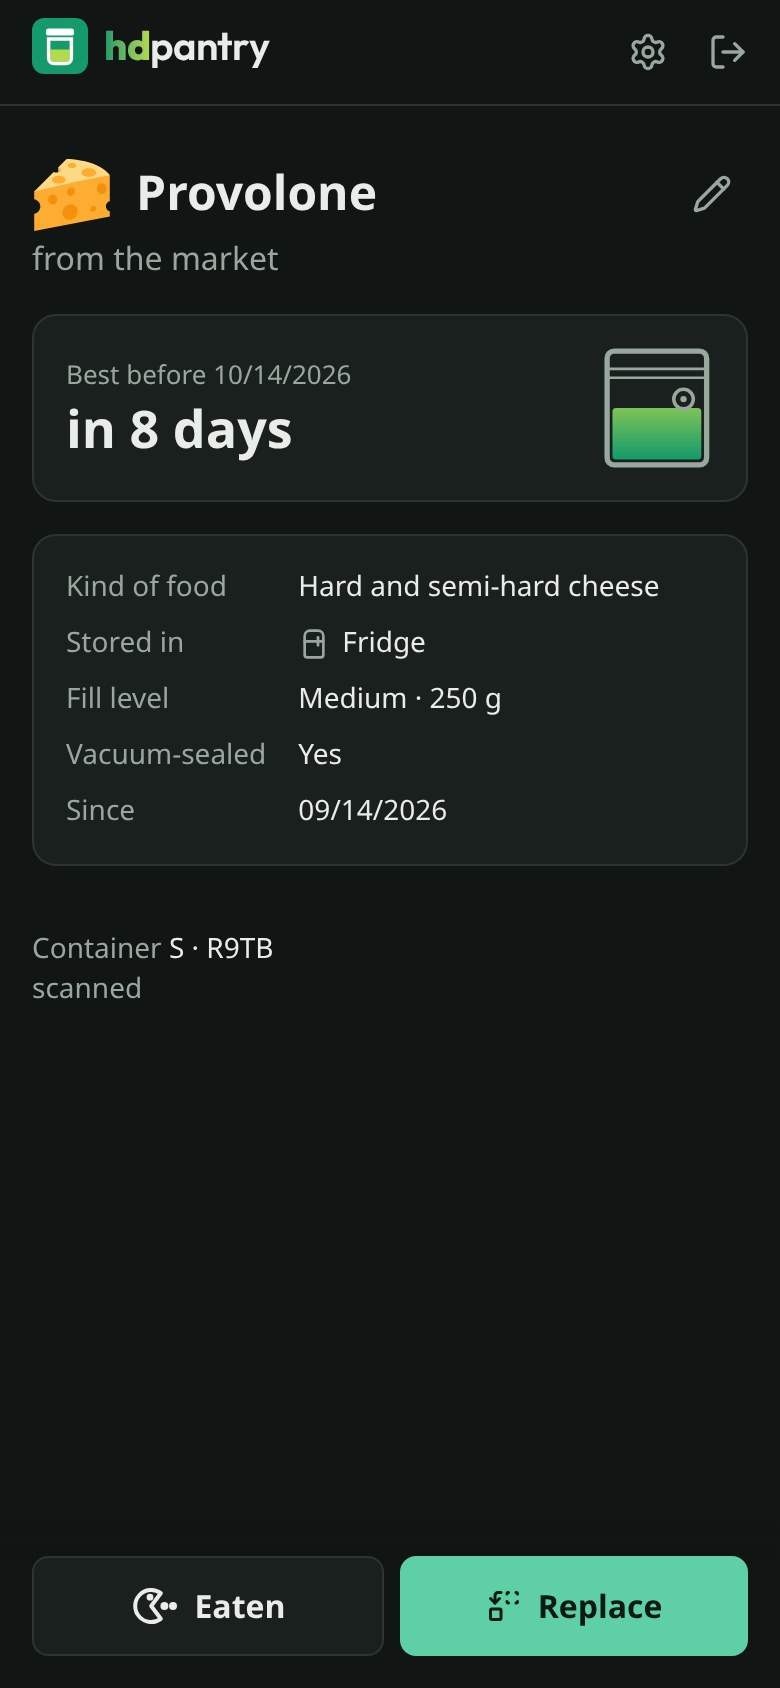
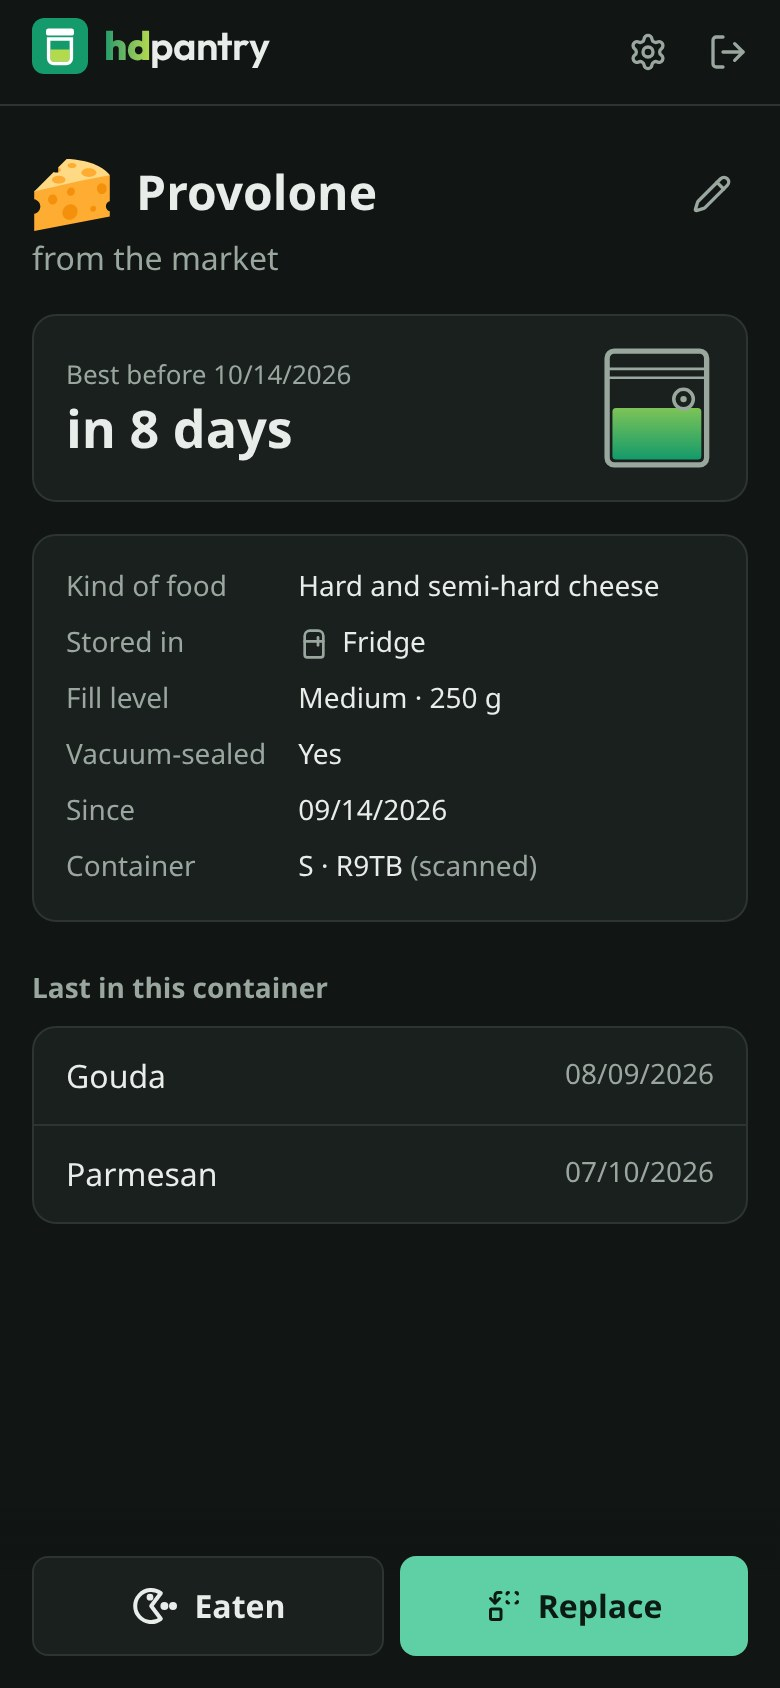
Container history on the detail page; one line of name suggestions
The detail page lists what was in the container before and names the
container in its box. In the name step, recently recorded names stand in
one line below the field and narrow down while typing; the history shows
the latest three, the rest on request.

diff --git a/src/lib/components/ItemForm.svelte b/src/lib/components/ItemForm.svelte
@@ -14,7 +14,8 @@
 		scaleAmount,
 		type FillLevel,
 		type ItemValues,
-		type Unit
+		type Unit,
+		matchNames
 	} from '$lib/items';
 	import {
 		CATEGORIES,
@@ -61,7 +62,7 @@
 		memory?: Memory;
 		// Earlier contents of this container, the latest first: tapping one takes it as a template
 		history?: Template[];
-		// Names recorded last in the whole stock: tapping one takes the name and goes on
+		// Names recorded last in the whole stock, the latest first: offered below the name field
 		recent?: string[];
 		submitLabel: string;
 		cancelHref: string;
@@ -76,6 +77,12 @@
 	let step = $state<1 | 2>(nameFirst ? 1 : 2);
 	// svelte-ignore state_referenced_locally
 	let name = $state(initial.name);
+	// Names offered below the field in the first step
+	let offered = $derived(matchNames(recent, name));
+	// What was in this container before is always in view – the latest three; older entries
+	// open on request, so the page stays short for a container that is used a lot
+	const HISTORY_SHOWN = 3;
+	let allHistory = $state(false);
 	// svelte-ignore state_referenced_locally
 	let note = $state(initial.note ?? '');
 	// svelte-ignore state_referenced_locally
@@ -231,6 +238,35 @@
 			autofocus={nameFirst}
 			class={step === 1 ? 'py-4 text-lg' : ''}
 		/>
+		{#if step === 1 && offered.length}
+			<!-- Names recorded before, in one line right where one types: the latest ones, narrowed
+			     down while typing. Swiped sideways, without a scroll bar; fades out on the right. -->
+			<div class="relative mt-2">
+				<div
+					class="flex [scrollbar-width:none] gap-2 overflow-x-auto pr-8 [&::-webkit-scrollbar]:hidden"
+					role="group"
+					aria-label={m.item.recent}
+				>
+					{#each offered as entry (entry)}
+						<button
+							type="button"
+							class="shrink-0 rounded-full border border-line bg-surface px-3.5 py-1.5 whitespace-nowrap transition-colors hover:border-accent"
+							onclick={() => {
+								name = entry;
+								guess();
+								step = 2;
+							}}
+						>
+							{entry}
+						</button>
+					{/each}
+				</div>
+				<span
+					class="pointer-events-none absolute inset-y-0 right-0 w-10 bg-linear-to-l from-bg to-transparent"
+					aria-hidden="true"
+				></span>
+			</div>
+		{/if}
 		{#if step === 2}
 			<!-- The note: a quiet line right under the name, no frame, no heading -->
 			<input
@@ -252,7 +288,7 @@
 			<section>
 				<h2 class="text-sm font-semibold text-muted">{m.item.history}</h2>
 				<ul class="mt-2 overflow-hidden rounded-xl border border-line bg-surface">
-					{#each history as entry (entry.id)}
+					{#each allHistory ? history : history.slice(0, HISTORY_SHOWN) as entry (entry.id)}
 						<li class="border-b border-line last:border-b-0">
 							<button
 								type="button"
@@ -265,29 +301,11 @@
 						</li>
 					{/each}
 				</ul>
-			</section>
-		{/if}
-
-		<!-- Below the history of the container, never in its place: what was in this container
-		     before has to stay in view (e.g. not to mix animal and vegan food) -->
-		{#if recent.length}
-			<section>
-				<h2 class="text-sm font-semibold text-muted">{m.item.recent}</h2>
-				<div class="mt-2 flex flex-wrap gap-2">
-					{#each recent as entry (entry)}
-						<button
-							type="button"
-							class="rounded-full border border-line bg-surface px-3.5 py-1.5 transition-colors hover:border-accent"
-							onclick={() => {
-								name = entry;
-								guess();
-								step = 2;
-							}}
-						>
-							{entry}
-						</button>
-					{/each}
-				</div>
+				{#if !allHistory && history.length > HISTORY_SHOWN}
+					<button type="button" class="mt-1 btn-quiet text-sm" onclick={() => (allHistory = true)}>
+						{m.item.moreHistory(history.length - HISTORY_SHOWN)}
+					</button>
+				{/if}
 			</section>
 		{/if}
 	{:else}

diff --git a/src/routes/containers/[id]/+page.svelte b/src/routes/containers/[id]/+page.svelte
@@ -14,6 +14,8 @@
 	let container = $derived(data.container);
 	let item = $derived(data.item);
 	let confirmEaten = $state(false);
+	// How the container got into the app, said in a word behind its name
+	let how = $derived(container.manual ? m.containers.typed : m.containers.scanned);
 
 	// How long it still keeps: the first thing this page is opened for, in the colours of the list
 	let due = $derived(expiry(item?.bestBefore ?? null, data.today, data.soonDays));
@@ -92,6 +94,11 @@
 				<dd>{item.vacuumed ? m.common.yes : m.common.no}</dd>
 				<dt class="text-muted">{m.item.since}</dt>
 				<dd>{formatDate(item.createdAt)}</dd>
+				<dt class="text-muted">{m.containers.container}</dt>
+				<dd>
+					{codeLabel(container)}
+					<span class="text-muted">({how})</span>
+				</dd>
 			</dl>
 		</section>
 
@@ -144,10 +151,28 @@
 		</a>
 	{/if}
 
-	<!-- The container itself: two quiet lines -->
-	<p class="mt-8 text-sm text-muted">
-		{m.containers.container}
-		<span class="font-medium text-text">{codeLabel(container)}</span>
-	</p>
-	<p class="text-sm text-muted">{container.manual ? m.containers.typed : m.containers.scanned}</p>
+	{#if !item}
+		<!-- An empty container has no box of details: its name stands here as one quiet line -->
+		<p class="mt-8 text-sm text-muted">
+			{m.containers.container}
+			<span class="font-medium text-text">{codeLabel(container)}</span>
+			({how})
+		</p>
+	{/if}
+
+	<!-- What was in this container before: to see what it was used for (only to look at here;
+	     taking an entry as a template happens when filling it) -->
+	{#if data.history.length}
+		<section class="mt-6">
+			<h2 class="text-sm font-semibold text-muted">{m.item.history}</h2>
+			<ul class="mt-2 overflow-hidden rounded-xl border border-line bg-surface">
+				{#each data.history as entry (entry.id)}
+					<li class="flex items-center gap-3 border-b border-line px-4 py-3 last:border-b-0">
+						<span class="min-w-0 flex-1 truncate font-medium">{entry.name}</span>
+						<span class="shrink-0 text-sm text-muted">{formatDate(entry.createdAt)}</span>
+					</li>
+				{/each}
+			</ul>
+		</section>
+	{/if}
 </main>

diff --git a/src/lib/items.test.ts b/src/lib/items.test.ts
@@ -1,5 +1,5 @@
 import { describe, expect, it } from 'vitest';
-import { isDate, readItemForm, scaleAmount } from './items';
+import { isDate, matchNames, readItemForm, scaleAmount } from './items';
 
 function form(values: Record<string, string>) {
 	const data = new FormData();
@@ -122,4 +122,22 @@ it('only accepts real calendar days', () => {
 	expect(isDate('2027-02-29')).toBe(false);
 	expect(isDate('2027-13-01')).toBe(false);
 	expect(isDate('2027-1-1')).toBe(false);
+});
+
+describe('names offered below the name field', () => {
+	const names = ['Provolone', 'Lentil soup', 'Carrots', 'Chili', 'Chicken soup', 'Rice'];
+	it('nothing typed: the ones recorded last', () => {
+		expect(matchNames(names, '', 3)).toEqual(['Provolone', 'Lentil soup', 'Carrots']);
+		expect(matchNames(names, '   ')).toEqual(names);
+	});
+	it('while typing: what begins like it first, then what contains it', () => {
+		expect(matchNames(names, 'ch')).toEqual(['Chili', 'Chicken soup']);
+		expect(matchNames(names, 'SOUP')).toEqual(['Lentil soup', 'Chicken soup']);
+		expect(matchNames(names, 'ri')).toEqual(['Rice']);
+		expect(matchNames(names, 'c', 2)).toEqual(['Carrots', 'Chili']);
+	});
+	it('offers nothing that does not fit, and not what is typed already', () => {
+		expect(matchNames(names, 'xyz')).toEqual([]);
+		expect(matchNames(names, 'rice')).toEqual([]);
+	});
 });

diff --git a/src/routes/containers/[id]/+page.server.ts b/src/routes/containers/[id]/+page.server.ts
@@ -1,6 +1,6 @@
 import { redirect } from '@sveltejs/kit';
 import { containerOf } from '$lib/server/containers';
-import { activeItem, removeActiveItem } from '$lib/server/items';
+import { activeItem, containerHistory, removeActiveItem } from '$lib/server/items';
 import { soonDays } from '$lib/server/settings';
 import type { Actions, PageServerLoad } from './$types';
 
@@ -23,6 +23,12 @@ export const load: PageServerLoad = ({ params, locals }) => {
 					createdAt: item.createdAt.toISOString()
 				}
 			: null,
+		// What was in this container before, the latest first – so one can see what it was used for
+		history: containerHistory(c.id).map((entry) => ({
+			id: entry.id,
+			name: entry.name,
+			createdAt: entry.createdAt.toISOString()
+		})),
 		// Today in the time zone of the server (TZ): decides what counts as expired
 		today: new Date().toLocaleDateString('sv-SE'),
 		soonDays: soonDays(),

diff --git a/src/lib/items.ts b/src/lib/items.ts
@@ -126,3 +126,20 @@ export function readItemForm(
 		}
 	};
 }
+
+// Names offered below the name field. Nothing typed yet: the ones recorded last. While typing:
+// those that fit, first the ones that begin like it, then the ones that contain it – upper and
+// lower case do not matter. What is typed already is not offered again.
+export function matchNames(names: readonly string[], typed: string, limit = 8) {
+	const wanted = typed.trim().toLowerCase();
+	if (!wanted) return names.slice(0, limit);
+	const starts: string[] = [];
+	const contains: string[] = [];
+	for (const name of names) {
+		const lower = name.toLowerCase();
+		if (lower === wanted) continue;
+		if (lower.startsWith(wanted)) starts.push(name);
+		else if (lower.includes(wanted)) contains.push(name);
+	}
+	return [...starts, ...contains].slice(0, limit);
+}

diff --git a/src/lib/server/items.ts b/src/lib/server/items.ts
@@ -106,13 +106,14 @@ export function replaceItem(containerId: number, values: ItemValues) {
 }
 
 // The names recorded last, each once, the latest first – offered below the name field, so
-// what comes back again and again does not have to be typed.
-export function recentNames(limit = 8) {
+// what comes back again and again does not have to be typed. More than are shown at once:
+// typing narrows them down (matchNames() in $lib/items).
+export function recentNames(limit = 60) {
 	const rows = getDb()
 		.select({ name: items.name })
 		.from(items)
 		.orderBy(desc(items.id))
-		.limit(200)
+		.limit(500)
 		.all();
 	const seen = new Set<string>();
 	const names: string[] = [];

diff --git a/src/lib/i18n/de.ts b/src/lib/i18n/de.ts
@@ -241,6 +241,7 @@ export const de = {
 		eatenConfirm: 'Ja, gegessen',
 		history: 'Zuletzt in diesem Behälter',
 		recent: 'Zuletzt erfasst',
+		moreHistory: (n: number) => (n === 1 ? '1 weiteren anzeigen' : `${n} weitere anzeigen`),
 		name: 'Name',
 		// Shown in the empty name field, a different one each time: food and dishes only
 		nameExamples: [

diff --git a/src/lib/i18n/en.ts b/src/lib/i18n/en.ts
@@ -239,6 +239,7 @@ export const en: Messages = {
 		eatenConfirm: 'Yes, eaten',
 		history: 'Last in this container',
 		recent: 'Recently recorded',
+		moreHistory: (n) => `Show ${n} more`,
 		name: 'Name',
 		// Shown in the empty name field, a different one each time: food and dishes only
 		nameExamples: [

diff --git a/CLAUDE.md b/CLAUDE.md
@@ -48,7 +48,7 @@ Sparsam bleiben: kleines Image, wenige Abhängigkeiten, schnelle Seiten auf schw
 - Gelesen werden QR, Data Matrix, EAN-13/8, Code 128 (`FORMATS`).
 - **Sobald ein Code erkannt ist, geht es ohne Rückfrage weiter** (`/scan`): Ein voller Behälter zeigt seinen Inhalt; ein leerer – auch ein zum ersten Mal gesehener, der dabei still angelegt wird – fragt sofort nach dem Namen des Inhalts. Kein Zwischenschritt, kein „Foto bestätigen“.
 - Code-Parser `src/lib/codes.ts`: zieht die ID eines Behälters aus dem Rohinhalt. Regeln als Tabelle (`PARAMETER_RULES`): Bei Codes mit Parametern ist der Kurzcode-Parameter die ID (er steht auch aufgedruckt auf dem Behälter – eingetippt muss er denselben Behälter finden), Größe und Typ-Code werden mitgenommen; die Adresse davor ist egal. Jeder andere Code zählt als Ganzes. Kurzcodes werden großgeschrieben. Neue Code-Form = neue Regel + Test, mit erfundenen Beispielwerten.
-- Behälter (`containers`, `src/lib/server/containers.ts`): Rohinhalt und Herkunft des Codes (`source`: Kamera, Foto, eingetippt) werden mitgespeichert. Kein pflegbares Feld für die Art (Beutel/Box); der Typ-Code wird nur gespeichert, nicht gedeutet. **Es gibt keine Behälter-Übersicht:** Leere Behälter interessieren nicht, gefüllte stehen im Vorrat. Auf der Detailseite steht der Behälter nur in zwei leisen Zeilen: Bezeichnung, darunter „manuell erfasst“ oder „gescannt“. Der Inhalt des Codes interessiert im Alltag nicht; er steht nur in den Einstellungen hinter dem Info-Symbol des Behälters.
+- Behälter (`containers`, `src/lib/server/containers.ts`): Rohinhalt und Herkunft des Codes (`source`: Kamera, Foto, eingetippt) werden mitgespeichert. Kein pflegbares Feld für die Art (Beutel/Box); der Typ-Code wird nur gespeichert, nicht gedeutet. **Es gibt keine Behälter-Übersicht:** Leere Behälter interessieren nicht, gefüllte stehen im Vorrat. Auf der Detailseite steht der Behälter als Zeile im Kasten der Angaben: Bezeichnung, dahinter in Klammern „manuell erfasst“ oder „gescannt“; darunter der Verlauf des Behälters (nur zum Ansehen). Der Inhalt des Codes interessiert im Alltag nicht; er steht nur in den Einstellungen hinter dem Info-Symbol des Behälters.
 - **Manuell erfasste und gescannte Behälter sind getrennte Gruppen** (`manual`; derselbe Code darf in jeder Gruppe einmal vorkommen). Eingetippt wird zuerst der gescannte Behälter gesucht (der Kurzcode steht aufgedruckt), dann der manuelle, sonst ein manueller angelegt. Wird ein Code gescannt, den es nur manuell gibt, fragt die App „Zusammenführen?“: Ja = der manuelle wird zum gescannten (Inhalt und Verlauf bleiben), Nein = eigener gescannter Behälter; später zusammenführen geht in den Einstellungen (nicht, solange beide gefüllt sind). Nur bei manuellen lässt sich der Code ändern.
 - Einstellungen → Behälter (`/settings/containers`): Liste aller Behälter. Einzelnen löschen = doppelte Bestätigung; **„Alle Behälter löschen“ nur nach Eintippen des Bestätigungsworts** (prüft auch der Server).
 - Rückmeldung beim Erkennen: nur eine kurze Vibration (wirkt nur, wenn das Handy haptisches Feedback erlaubt – von einer Webseite nicht zu umgehen). Bewusst kein Ton und kein optischer Effekt: Das Ergebnis erscheint ohnehin sofort.
@@ -57,10 +57,10 @@ Sparsam bleiben: kleines Image, wenige Abhängigkeiten, schnelle Seiten auf schw
 ## Inhalte
 
 - **Es gibt genau einen Namen: den des Inhalts** (z. B. „Provolone“). Das leere Namensfeld zeigt jedes Mal ein anderes Beispiel in der gewählten Sprache (`nameExamples` in `de.ts`/`en.ts`, nur Lebensmittel und Gerichte, die das Wörterbuch kennt – ein Test prüft das). Er wird nach dem Scan abgefragt, steht in der Vorratsübersicht und steuert die Automatik (Kategorie, Symbol, Lagerort, Datum). Ein Behälter hat keinen eigenen Namen; er heißt „Größe · Kurzcode“ (`codeLabel()`) und steht nur bei den Details. Nie ein zweites Namensfeld einführen.
-- Tabelle `items`: was in einem Behälter ist oder war. „Gegessen“ (immer mit Rückfrage) löscht nicht, sondern setzt `removed_at`; danach ist der Behälter leer und fragt beim nächsten Scan nach einem neuen Namen. Darunter steht der Verlauf dieses Behälters, das Neueste zuerst; Antippen übernimmt den Eintrag als Vorlage (alles außer dem Datum). Höchstens ein aktiver Inhalt je Behälter – das sichert auch ein Index in der Datenbank.
+- Tabelle `items`: was in einem Behälter ist oder war. „Gegessen“ (immer mit Rückfrage) löscht nicht, sondern setzt `removed_at`; danach ist der Behälter leer und fragt beim nächsten Scan nach einem neuen Namen. Der Verlauf dieses Behälters steht beim Befüllen und auf der Detailseite, das Neueste zuerst; beim Befüllen übernimmt Antippen den Eintrag als Vorlage (alles außer dem Datum). Höchstens ein aktiver Inhalt je Behälter – das sichert auch ein Index in der Datenbank.
 - Felder, Grenzen und die Prüfung des Formulars stehen in `src/lib/items.ts` (`readItemForm()`), für Browser und Server gemeinsam. Lagerorte: `pantry`, `fridge`, `zero`, `freezer`; Füllstand: `low`, `medium`, `full`. Menge optional als Zahl + Einheit (`g`, `kg`, `ml`, `l`, `pcs`, `servings`). **Die Menge folgt dem Füllstand-Regler in Dritteln** (voll = 3/3, mittel = 2/3, niedrig = 1/3; `scaleAmount()`), gerechnet ab der zuletzt eingetippten Menge und der Stufe, bei der sie eingetippt wurde.
 - „Ersetzen“ (`/containers/[id]/add?replace=1`): Der alte Inhalt wird erst beim Speichern des neuen als gegessen vermerkt, beides in einer Transaktion (`replaceItem()`); Abbrechen ändert nichts. Deshalb keine eigene Rückfrage.
-- Ein Formular für Neu und Bearbeiten (`ItemForm.svelte`). Neu (`/containers/[id]/add`): erst nur der Name (Fokus sofort, Enter = weiter), dann der Rest – dort ist nichts fokussiert, damit die Handy-Tastatur zugeht. Im Namensschritt steht unter „Weiter“ zuerst der Verlauf dieses Behälters, **erst darunter** „Zuletzt erfasst“ (Namen aus dem ganzen Vorrat, `recentNames()`, ein Tipp übernimmt). **Der Verlauf des Behälters darf nie ersetzt, verdrängt oder versteckt werden:** Man will sehen, was vorher darin war (z. B. um Tierisches und Veganes nicht zu mischen). Bearbeiten (`/containers/[id]/edit`) über das Stift-Symbol neben dem Namen – Bearbeiten immer per Stift, nicht über Extra-Felder auf der Detailseite. **Nach jedem Speichern (neu, ersetzen, bearbeiten) und nach „Gegessen“ geht es zurück zum Vorrat;** nur „Abbrechen“ beim Bearbeiten führt zur Detailseite zurück.
+- Ein Formular für Neu und Bearbeiten (`ItemForm.svelte`). Neu (`/containers/[id]/add`): erst nur der Name (Fokus sofort, Enter = weiter), dann der Rest – dort ist nichts fokussiert, damit die Handy-Tastatur zugeht. Im Namensschritt steht direkt unter dem Feld **eine** Zeile mit zuletzt erfassten Namen aus dem ganzen Vorrat (`recentNames()`; beim Tippen gefiltert, `matchNames()`; seitlich wischbar, ohne Scrollleiste; ein Tipp übernimmt), unter „Weiter“ der Verlauf dieses Behälters – die drei neuesten offen, ältere hinter „… weitere anzeigen“. **Der Verlauf des Behälters darf nie ersetzt, verdrängt oder versteckt werden:** Man will sehen, was vorher darin war (z. B. um Tierisches und Veganes nicht zu mischen). Bearbeiten (`/containers/[id]/edit`) über das Stift-Symbol neben dem Namen – Bearbeiten immer per Stift, nicht über Extra-Felder auf der Detailseite. **Nach jedem Speichern (neu, ersetzen, bearbeiten) und nach „Gegessen“ geht es zurück zum Vorrat;** nur „Abbrechen“ beim Bearbeiten führt zur Detailseite zurück.
 - Füllstand wird als Zeichnung gezeigt (`FillGauge.svelte`), im Formular über dem Regler, auf der Detailseite und in der Vorratsliste (auf Karten als kleines Abzeichen am Lebensmittel-Symbol, damit Lagerort und Menge Platz haben): gescannte Behälter als Vakuumbeutel (eckig, Verschlussleiste, rundes Ventil – eigene Zeichnung), manuell erfasste als Glas, damit man sie unterscheiden kann. Der Inhalt ist im Verlauf des Schriftzugs gezeichnet, unten Grün, oben Hellgrün – je voller, desto heller die Oberkante. Der Regler hat drei Markierungen statt Beschriftung; die gewählte Stufe steht unter der Zeichnung. Er bleibt ein Regler (User-Entscheidung, keine drei Felder).
 - Kein Foto-Upload. Optionale Notiz je Inhalt: im Formular eine unauffällige Zeile direkt unter dem Namen, ohne Rahmen und Überschrift. Optionales bleibt dezent: Die Menge erscheint erst über „Menge hinzufügen“.
 - Knöpfe nur zeigen, wenn die Aktion gerade möglich ist; sonst gleich den Grund nennen (Beispiel: Zusammenführen bei zwei gefüllten Behältern).
